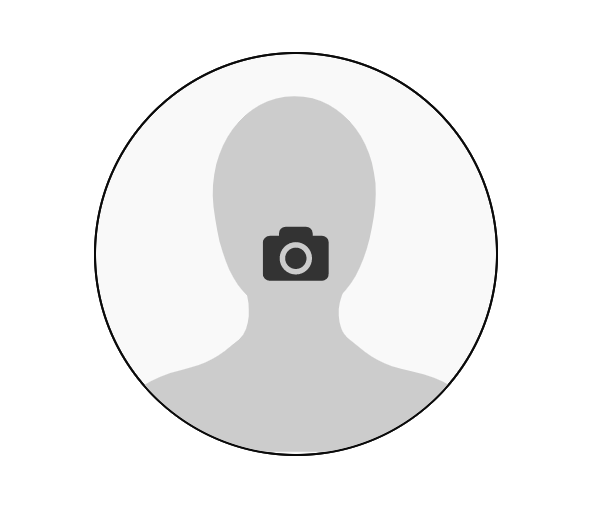
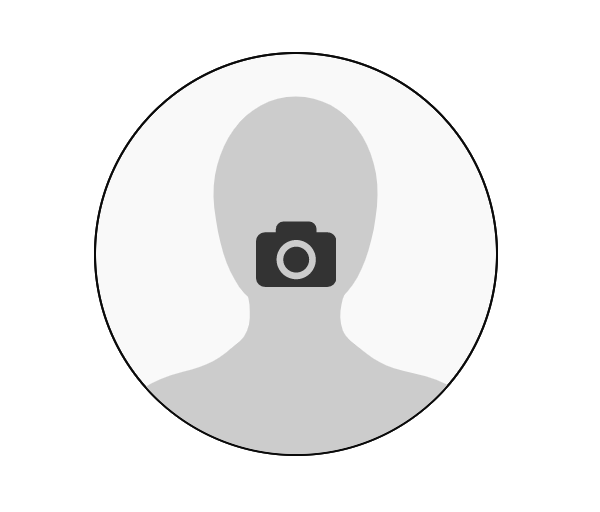
added new features, see readme

diff --git a/src/components/AvatarSelector.tsx b/src/components/AvatarSelector.tsx
@@ -6,21 +6,27 @@ import readFile from '../functions/read-file'
 import {AvatarSelectorProps} from '../@types'
 
 const AvatarSelector: (props: AvatarSelectorProps) => JSX.Element = ({
-  value = undefined,
+  value = null,
   onChange = (value) => null,
   size = 200,
+  iconSize = Number(size) / 5,
 }) => {
   return (
     <div
-      className={styles.base}
+      className={`${styles.base} ${styles.border}`}
       style={{
         width: `${size}px`,
         height: `${size}px`,
       }}>
-      {!value && <AvatarPlaceholder className={styles.img} size={size} />}
+      {!value && (
+        <AvatarPlaceholder
+          className={`${styles.center} ${styles.border} ${styles.content}`}
+          size={size}
+        />
+      )}
 
       <input
-        className={styles.inp}
+        className={`${styles.center} ${styles.inp}`}
         type='file'
         accept='.png,.jpg,.jpeg'
         multiple={false}
@@ -28,9 +34,13 @@ const AvatarSelector: (props: AvatarSelectorProps) => JSX.Element = ({
       />
 
       {value ? (
-        <img className={styles.img} src={value.base64} alt='' />
+        <img
+          className={`${styles.center} ${styles.border} ${styles.content}`}
+          src={value.base64}
+          alt=''
+        />
       ) : (
-        <CameraIcon className={styles.camera} size={Number(size) / 6} />
+        <CameraIcon className={`${styles.center} ${styles.icon}`} size={iconSize} />
       )}
     </div>
   )

diff --git a/styles/AvatarSelector.module.css b/styles/AvatarSelector.module.css
@@ -4,55 +4,40 @@
 }
 
 .base {
-  border-radius: 100%;
-  border: 1px solid var(--black);
   background-color: var(--white);
   display: grid;
   place-items: center;
   position: relative;
-  z-index: 0;
 }
 
-.placeholder {
-  border-radius: 100%;
+.border {
   border: 1px solid var(--black);
-  position: absolute;
-  top: 50%;
-  left: 50%;
-  transform: translate(-50%, -50%);
-  z-index: 0;
+  border-radius: 100%;
 }
 
-.camera {
+.center {
   position: absolute;
   top: 50%;
   left: 50%;
   transform: translate(-50%, -50%);
-  z-index: 1;
+}
+
+.content {
+  width: 100%;
+  height: 100%;
+  z-index: 0 !important;
+}
+
+.icon {
+  z-index: 1 !important;
 }
 
 .inp {
   width: 100%;
   height: 100%;
   border-radius: 100%;
-  position: absolute;
-  top: 50%;
-  left: 50%;
-  transform: translate(-50%, -50%);
-  z-index: 2;
   opacity: 0;
   overflow: hidden;
   cursor: pointer;
-}
-
-.img {
-  width: 100%;
-  height: 100%;
-  border-radius: 100%;
-  border: 1px solid var(--black);
-  position: absolute;
-  top: 50%;
-  left: 50%;
-  transform: translate(-50%, -50%);
-  z-index: 0;
+  z-index: 2 !important;
 }

diff --git a/src/@types/index.ts b/src/@types/index.ts
@@ -1,17 +1,21 @@
-import {CSSProperties, MouseEventHandler, ReactNode} from 'react'
+import {ChangeEvent, CSSProperties} from 'react'
+
+export type GetFileFunc = (value: FileData) => void
+
+export type ReadFileFunc = (e: ChangeEvent<HTMLInputElement>, callback: GetFileFunc) => void
 
 export interface FileData {
-  name?: string
-  type?: string
-  size?: string
+  name: string
+  type: string
+  size: string
   base64: string
-  file?: File
 }
 
 export interface AvatarSelectorProps {
   value: FileData | undefined | null
-  onChange: (value: FileData) => null
+  onChange: GetFileFunc
   size?: number
+  iconSize?: number
 }
 
 export interface SvgProps {

diff --git a/src/functions/read-file.ts b/src/functions/read-file.ts
@@ -1,7 +1,6 @@
-import {ChangeEvent} from 'react'
-import {FileData} from '../@types'
+import {ReadFileFunc} from '../@types'
 
-const readFile = (e: ChangeEvent<HTMLInputElement>, callback: (value: FileData) => null) => {
+const readFile: ReadFileFunc = (e, callback) => {
   const allFiles = e.target.files
 
   if (allFiles?.length) {

diff --git a/src/index.tsx b/src/index.tsx
@@ -1,3 +1,6 @@
 import AvatarSelector from './components/AvatarSelector'
+import readFile from './functions/read-file'
+import {FileData, ReadFileFunc} from './@types'
 
 export default AvatarSelector
+export {FileData, readFile, ReadFileFunc}

diff --git a/src/svgs/AvatarPlaceholder.tsx b/src/svgs/AvatarPlaceholder.tsx
@@ -10,7 +10,7 @@ const AvatarPlaceholder = ({
   return (
     <svg
       xmlns='http://www.w3.org/2000/svg'
-      viewBox='0 0 150 150'
+      viewBox='0 0 149 149'
       width={size}
       height={size}
       fill={fill}

diff --git a/README.md b/README.md
@@ -42,8 +42,61 @@ const value = {
 
 Common props you may want to include:
 
-| Prop     | Requirement | Default Value   | Description                                                      |
-| -------- | ----------- | --------------- | ---------------------------------------------------------------- |
-| onChange | Required    | (value) => null | Callback function, will recieve the image object as a value      |
-| value    | Required    | undefined       | The object given by the onChange handler                         |
-| size     | Optional    | 200             | Must be of type number, defines the size of the elemtn in pixels |
+| Prop     | Requirement | Default Value   | Description                                                  |
+| -------- | ----------- | --------------- | ------------------------------------------------------------ |
+| onChange | Required    | (value) => null | Callback function, will recieve the image object as a value  |
+| value    | Required    | undefined       | The object given by the onChange handler                     |
+| size     | Optional    | 200             | Type number, defines the size of the element in pixels       |
+| iconSize | Optional    | size / 5        | Type number, defines the size of the (camera) icon in pixels |
+
+## Additional imports
+
+### readFile (function)
+
+This function translates the selected file from your input into the "FileData" object, can be used if you choose your own file selection  input, but don't want to handle the FileReader API and/or format the data.
+
+```typescript
+import React from 'react
+import {readFile} from 'react-avatar-selector'
+
+function App(){
+  const [pic, setPic] = React.useState(null)
+
+  const handleChange = (e: React.ChangeEvent<HTMLInputElement>) => {
+    readFile(e, (file) => {
+      setPic(file)
+    })
+  }
+
+  return (
+    <input type="file" onChange={handleChange} />
+  )
+}
+```
+
+### FileData (TypeScript)
+
+The interface representing the object cointaining the image file data.
+
+```typescript
+interface FileData {
+  name: string
+  type: string
+  size: string
+  base64: string
+}
+```
+
+Usage:
+
+```typescript
+import {FileData} from 'react-avatar-selector'
+
+function App(){
+  const [pic, setPic] = React.useState<FileData | null>(null)
+
+  return (
+    <AvatarSelector onChange={(value: FileData) => setPic(value)} value={pic} />
+  )
+}
+```
